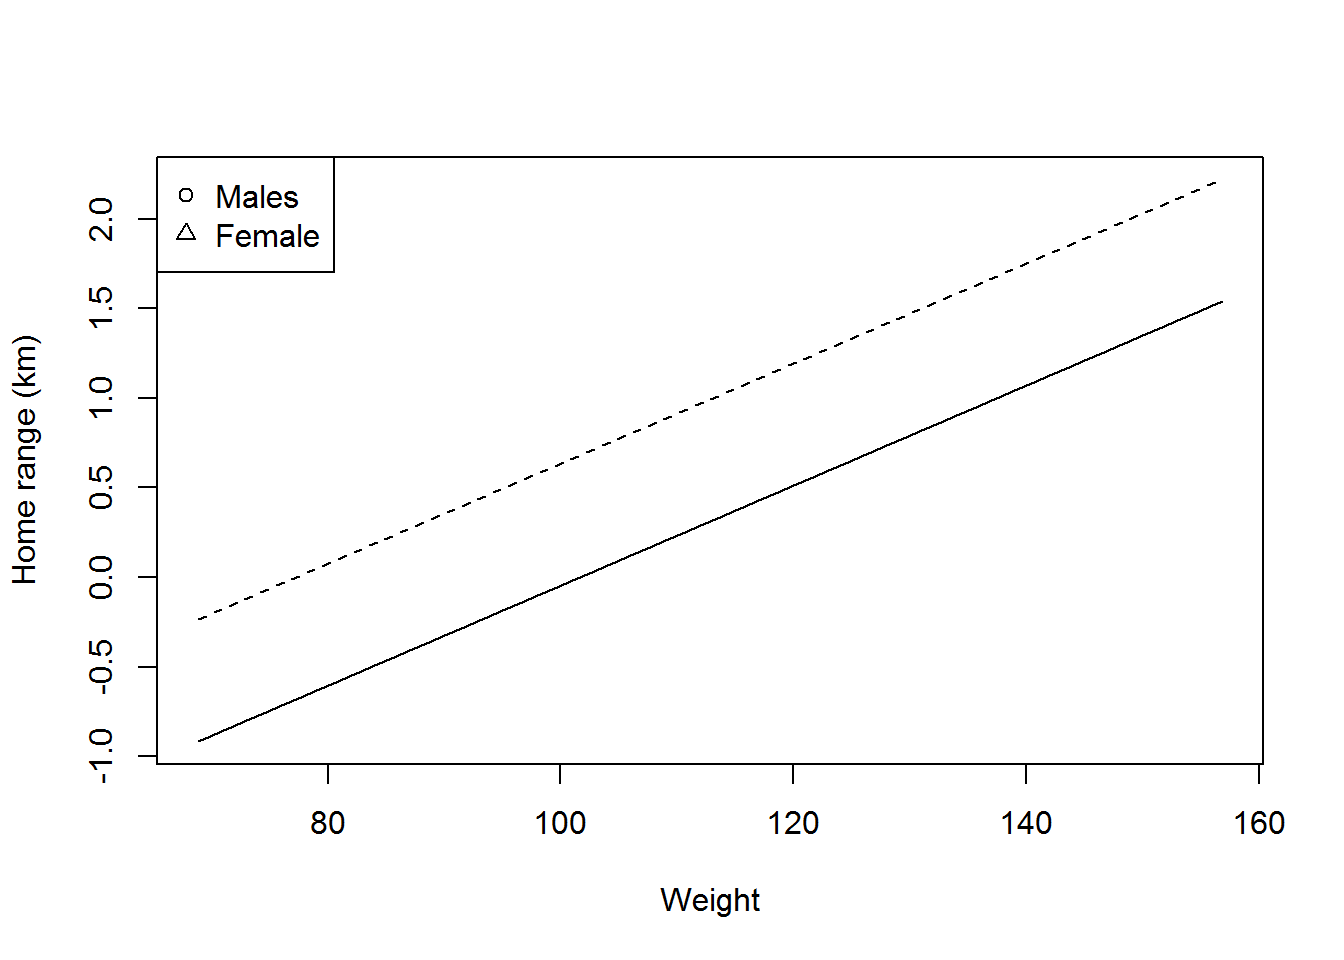
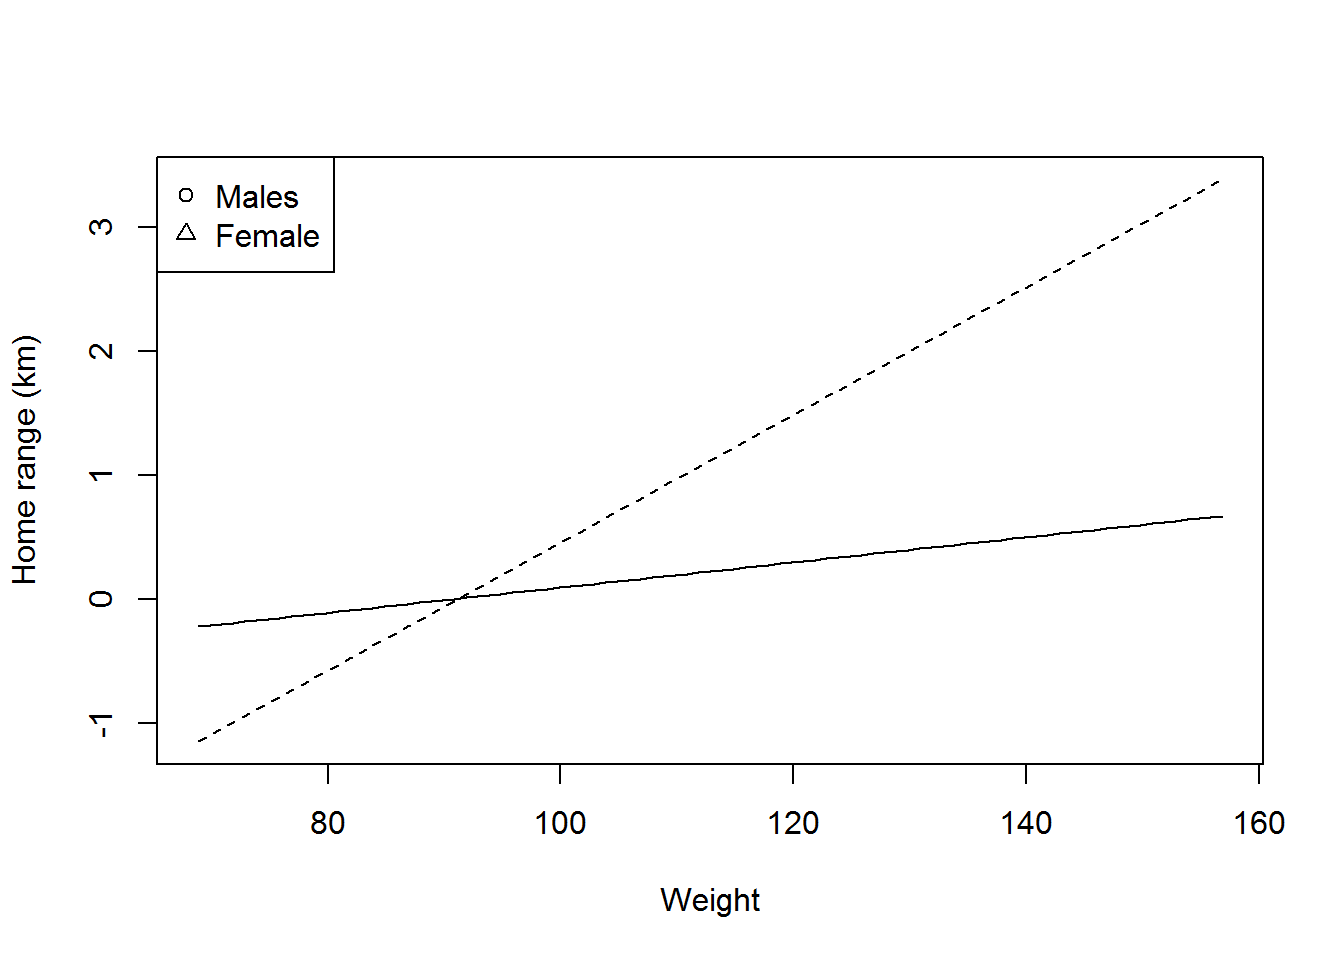
pre class 10

diff --git a/docs/Class-10.html b/docs/Class-10.html
@@ -358,11 +358,15 @@ List of preliminary problems to instructor for review
 <div id="a-basic-linear-model-of-a-normally-distributed-variable" class="section level2">
 <h2>A basic linear model of a normally distributed variable</h2>
 <p>Let’s fit a linear model to some the data. Suppose we are interested in predicting whether female bears have larger or smaller home ranges than male bears and the associated uncertainty. The model for this can be recast as:</p>
-<p><span class="math display">\[\mu = \beta_0 + \beta_1\cdot \text{Sex}\]</span></p>
+<p><span class="math display">\[\mu = \beta_0 + \beta_1\cdot \text{Sex}+
+    \beta_2\cdot\text{Weight}+
+    \beta_3\cdot\text{Weight}\cdot\text{Sex} \]</span></p>
 <p>where,</p>
 <ul>
 <li><span class="math inline">\(\beta_0\)</span> is the intercept of the model</li>
 <li><span class="math inline">\(\beta_1\)</span> is the effect of sex.</li>
+<li><span class="math inline">\(\beta_2\)</span> is the effect of weight.</li>
+<li><span class="math inline">\(\beta_3\)</span> is the interaction of sex and weight.</li>
 </ul>
 <p>We can link the predictive model to the data using a statistical model. In this case we are assuming a normal distribution with some uncertainty quantified as <span class="math inline">\(\sigma\)</span>. Recall was specific this as:</p>
 <p><span class="math display">\[Y_i \sim Normal(\mu,\sigma)\]</span></p>
@@ -432,36 +436,38 @@ summary(fit) # model summary</code></pre>
 <li><span class="math inline">\(\sigma\)</span> = 1.165 residual standard error</li>
 </ul>
 <p>Ok, now we also suspect there is an effect of weight on home range, larger bears have large home ranges. The effect of weight can be evaluated by adding weight to the linear model. The model parameters for this model are the same as before but there is a new parameter estimated, <span class="math inline">\(\beta_{2}\)</span> which is the effect of weight on home range. Let’s fit the model.</p>
-<pre class="r"><code>fit&lt;-lm(homerange~sex+weight,data=dat)
+<pre class="r"><code>fit&lt;-lm(homerange~sex+weight+sex:weight,data=dat)
 summary(fit)</code></pre>
 <pre><code>## 
 ## Call:
-## lm(formula = homerange ~ sex + weight, data = dat)
+## lm(formula = homerange ~ sex + weight + sex:weight, data = dat)
 ## 
 ## Residuals:
 ##     Min      1Q  Median      3Q     Max 
-## -1.0635 -0.5304 -0.2692  0.3202  4.8196 
+## -1.5483 -0.2282 -0.0520  0.1814  3.9842 
 ## 
 ## Coefficients:
-##              Estimate Std. Error t value Pr(&gt;|t|)    
-## (Intercept) -2.837499   0.490476  -5.785 1.58e-07 ***
-## sexfemale    0.680472   0.214368   3.174  0.00218 ** 
-## weight       0.027901   0.004337   6.433 1.05e-08 ***
+##                   Estimate Std. Error t value Pr(&gt;|t|)    
+## (Intercept)      -0.917105   0.538053  -1.704   0.0925 .  
+## sexfemale        -3.772067   0.816939  -4.617 1.60e-05 ***
+## weight            0.010143   0.004848   2.092   0.0398 *  
+## sexfemale:weight  0.041338   0.007396   5.589 3.61e-07 ***
 ## ---
 ## Signif. codes:  0 &#39;***&#39; 0.001 &#39;**&#39; 0.01 &#39;*&#39; 0.05 &#39;.&#39; 0.1 &#39; &#39; 1
 ## 
-## Residual standard error: 0.9415 on 75 degrees of freedom
-## Multiple R-squared:  0.4041, Adjusted R-squared:  0.3882 
-## F-statistic: 25.43 on 2 and 75 DF,  p-value: 3.71e-09</code></pre>
+## Residual standard error: 0.7948 on 74 degrees of freedom
+## Multiple R-squared:  0.581,  Adjusted R-squared:  0.564 
+## F-statistic:  34.2 on 3 and 74 DF,  p-value: 5.623e-14</code></pre>
 <pre class="r"><code>coef(fit)</code></pre>
-<pre><code>## (Intercept)   sexfemale      weight 
-## -2.83749882  0.68047161  0.02790104</code></pre>
-<p>Well I’ll be the model fits pretty well. The r-squared value is 0.4040865 which is pretty good for ecological data, right? Either way the parameter estimates for the model are:</p>
+<pre><code>##      (Intercept)        sexfemale           weight sexfemale:weight 
+##      -0.91710478      -3.77206675       0.01014257       0.04133752</code></pre>
+<p>Well I’ll be the model fits pretty well. The r-squared value is 0.5809741 which is pretty good for ecological data, right? Either way the parameter estimates for the model are:</p>
 <ul>
-<li><span class="math inline">\(\beta_{0}\)</span> = -2.837 this is the average home range of a male bear</li>
-<li><span class="math inline">\(\beta_{1}\)</span> = 0.68 the effect of being a female on home range</li>
-<li><span class="math inline">\(\beta_{2}\)</span> = 0.028 the effect of weight on home range</li>
-<li><span class="math inline">\(\sigma\)</span> = 0.942 residual standard error</li>
+<li><span class="math inline">\(\beta_{0}\)</span> = -0.917 this is the average home range of a male bear</li>
+<li><span class="math inline">\(\beta_{1}\)</span> = -3.772 the effect of being a female on home range</li>
+<li><span class="math inline">\(\beta_{2}\)</span> = 0.01 the effect of weight on home range</li>
+<li><span class="math inline">\(\beta_{3}\)</span> = 0.041 the effect of weight on home range</li>
+<li><span class="math inline">\(\sigma\)</span> = 0.795 residual standard error</li>
 </ul>
 </div>
 <div id="making-predictions-from-the-model" class="section level2">
@@ -494,12 +500,12 @@ levels(preddat$sex)</code></pre>
 <pre class="r"><code>preddat$pred&lt;- predict(fit,preddat)
 head(preddat)</code></pre>
 <pre><code>##     weight  sex       pred
-## 1 68.85462 male -0.9163836
-## 2 69.85462 male -0.8884826
-## 3 70.85462 male -0.8605815
-## 4 71.85462 male -0.8326805
-## 5 72.85462 male -0.8047795
-## 6 73.85462 male -0.7768784</code></pre>
+## 1 68.85462 male -0.2187423
+## 2 69.85462 male -0.2085997
+## 3 70.85462 male -0.1984571
+## 4 71.85462 male -0.1883146
+## 5 72.85462 male -0.1781720
+## 6 73.85462 male -0.1680294</code></pre>
 <p>Now we can plot the predictions.</p>
 <pre class="r"><code>plot(pred~weight,preddat,type=&#39;n&#39;,xlab=&quot;Weight&quot;,ylab=&quot;Home range (km)&quot;)
 points(pred~weight,preddat,subset=sex==&quot;male&quot;,type=&#39;l&#39;,lty=1)
@@ -515,7 +521,7 @@ points(pred~weight,preddat,subset=sex==&quot;male&quot;,type=&#39;l&#39;,lty=1)
 points(pred~weight,preddat,subset=sex==&quot;female&quot;,type=&#39;l&#39;,lty=2)
 legend(&#39;topleft&#39;,legend=c(&quot;Males&quot;,&quot;Female&quot;),pch=c(1,2))</code></pre>
 <p><img src="Class-10_files/figure-html/unnamed-chunk-18-1.png" width="672" /></p>
-<p>That is a terrible fit. But, the r-squared value was 0.4040865? I probably should have looked at the data first, but that is part of the point of this example. There are a couple of things that might be going on here. First, the distribution could be wrong. That data does not look all the normally distributed. Second, the model could be wrong and home ranges are not linearly related to sex and weight. We can evaluate these 2 problems with plots of residuals versus predicted to evaluate distribution and observed versus predicted values to evaluate if the model is misspecified. Here we go.</p>
+<p>That is a terrible fit. But, the r-squared value was 0.5809741? I probably should have looked at the data first, but that is part of the point of this example. There are a couple of things that might be going on here. First, the distribution could be wrong. That data does not look all the normally distributed. Second, the model could be wrong and home ranges are not linearly related to sex and weight. We can evaluate these 2 problems with plots of residuals versus predicted to evaluate distribution and observed versus predicted values to evaluate if the model is misspecified. Here we go.</p>
 <pre class="r"><code>dat$resids&lt;-resid(fit)
 dat$preds&lt;-fitted(fit)
 
@@ -534,8 +540,26 @@ abline(0,1)</code></pre>
 </div>
 <div id="messing-with-the-distribution" class="section level2">
 <h2>Messing with the distribution</h2>
-<p>Some cool kids told me that a Poisson might be the way to go because it models things 0 or greater. Home ranges are greater than 0 and it makes good sense to not let home range dip below 0. A linear model with a Poisson distribution can be fit using the <code>glm()</code> function. The syntax is similar to the <code>lm()</code> function.</p>
-<pre class="r"><code>fit&lt;- glm(homerange~sex+weight,dat, family=&quot;poisson&quot;)</code></pre>
+<p>Some cool kids told me that a Poisson might be the way to go because it models things 0 or greater. Home ranges are greater than 0 and it makes good sense to not let home range dip below 0. A linear model with a Poisson distribution can be fit using the <code>glm()</code> function.</p>
+<p>recast as:</p>
+<p><span class="math display">\[log(\mu) = \beta_0 + \beta_1\cdot \text{Sex}+
+    \beta_2\cdot\text{Weight}+
+    \beta_3\cdot\text{Weight}\cdot\text{Sex} \]</span></p>
+<p>where,</p>
+<ul>
+<li><span class="math inline">\(\beta_0\)</span> is the intercept of the model</li>
+<li><span class="math inline">\(\beta_1\)</span> is the effect of sex.</li>
+<li><span class="math inline">\(\beta_2\)</span> is the effect of weight.</li>
+<li><span class="math inline">\(\beta_3\)</span> is the interaction of sex and weight.</li>
+</ul>
+<p>We can link the predictive model to the data using a statistical model. In this case we are assuming a normal distribution with some uncertainty quantified as <span class="math inline">\(\sigma\)</span>. Recall was specific this as:</p>
+<p><span class="math display">\[Y_i \sim Poisson(\mu)\]</span></p>
+<p>where</p>
+<ul>
+<li><span class="math inline">\(\mu\)</span> is the prediction</li>
+</ul>
+<p>The Poisson distribution assumes that the uncertainty is equal to the mean. The syntax is similar to the <code>lm()</code> function.</p>
+<pre class="r"><code>fit&lt;- glm(homerange~sex+weight+sex:weight,dat, family=&quot;poisson&quot;)</code></pre>
 <pre><code>## Warning in dpois(y, mu, log = TRUE): non-integer x = 0.002182</code></pre>
 <pre><code>## Warning in dpois(y, mu, log = TRUE): non-integer x = 0.874164</code></pre>
 <pre><code>## Warning in dpois(y, mu, log = TRUE): non-integer x = 0.218165</code></pre>
@@ -618,24 +642,26 @@ abline(0,1)</code></pre>
 <pre class="r"><code>summary(fit)</code></pre>
 <pre><code>## 
 ## Call:
-## glm(formula = homerange ~ sex + weight, family = &quot;poisson&quot;, data = dat)
+## glm(formula = homerange ~ sex + weight + sex:weight, family = &quot;poisson&quot;, 
+##     data = dat)
 ## 
 ## Deviance Residuals: 
 ##      Min        1Q    Median        3Q       Max  
-## -0.67395  -0.11986  -0.04437  -0.01000   1.87169  
+## -0.68998  -0.13150  -0.04767  -0.01447   1.87169  
 ## 
 ## Coefficients:
-##              Estimate Std. Error z value Pr(&gt;|z|)    
-## (Intercept) -13.95964    2.12579  -6.567 5.14e-11 ***
-## sexfemale     1.61283    0.40460   3.986 6.71e-05 ***
-## weight        0.09393    0.01457   6.449 1.13e-10 ***
+##                   Estimate Std. Error z value Pr(&gt;|z|)    
+## (Intercept)      -13.57659    4.10047  -3.311  0.00093 ***
+## sexfemale          1.09791    4.77059   0.230  0.81798    
+## weight             0.09127    0.02848   3.205  0.00135 ** 
+## sexfemale:weight   0.00359    0.03318   0.108  0.91382    
 ## ---
 ## Signif. codes:  0 &#39;***&#39; 0.001 &#39;**&#39; 0.01 &#39;*&#39; 0.05 &#39;.&#39; 0.1 &#39; &#39; 1
 ## 
 ## (Dispersion parameter for poisson family taken to be 1)
 ## 
-##     Null deviance: 119.0547  on 77  degrees of freedom
-## Residual deviance:   8.3676  on 75  degrees of freedom
+##     Null deviance: 119.055  on 77  degrees of freedom
+## Residual deviance:   8.356  on 74  degrees of freedom
 ## AIC: Inf
 ## 
 ## Number of Fisher Scoring iterations: 6</code></pre>
@@ -655,13 +681,13 @@ abline(0,1)</code></pre>
 <p><img src="Class-10_files/figure-html/unnamed-chunk-25-1.png" width="672" /></p>
 <p>That looks a whole lot better. But I am still a concerned about all the warnings that happened during the model fitting. What is up with those. Let’s look at our data again.</p>
 <pre class="r"><code>head(dat)</code></pre>
-<pre><code>##   X    sex    weight   homerange      resids      preds        pred
-## 1 1 female  78.23331 0.002182498 -0.02358063 0.02576313 0.006750458
-## 2 2 female 124.00695 0.874163579 -0.42873153 1.30289511 0.497328408
-## 3 3 female 122.83473 0.218165462 -1.05202348 1.27018894 0.445474849
-## 4 4 female 124.10415 0.279088639 -1.02651854 1.30560718 0.501890092
-## 5 5 female 145.48238 3.906925690  2.00484361 1.90208208 3.738709744
-## 6 6 female 125.62795 0.307864648 -1.04025826 1.34812291 0.579123760</code></pre>
+<pre><code>##   X    sex    weight   homerange     resids      preds        pred
+## 1 1 female  78.23331 0.002182498  0.6638967 -0.6617142 0.006359669
+## 2 2 female 124.00695 0.874163579 -0.8205531  1.6947167 0.488764239
+## 3 3 female 122.83473 0.218165462 -1.4162052  1.6343707 0.437330022
+## 4 4 female 124.10415 0.279088639 -1.4206321  1.6997207 0.493291641
+## 5 5 female 145.48238 3.906925690  1.1066516  2.8002741 3.747912212
+## 6 6 female 125.62795 0.307864648 -1.4703017  1.7781663 0.570003540</code></pre>
 <p>Ohhh, I think I see it. The Poisson distribution is only good for integers and home range is continuous. I wonder what happens is I round my home ranges to the nearest whole number and coerce it to an integer.</p>
 <pre class="r"><code>dat$hr_int&lt;- as.integer(round(dat$homerange,0))</code></pre>
 <p>Now let’s refit the model and see if the warnings persist.</p>
@@ -678,28 +704,28 @@ abline(0,1)</code></pre>
 <p><img src="Class-10_files/figure-html/unnamed-chunk-31-1.png" width="672" /></p>
 <p>Ummm, that looks weird. First there are some home ranges that are predicted to be 0, or at least close to it. Second, what is up with the extreme residuals? Maybe a Poisson was not a great idea. Let’s go back and look at the data. Recall we coerced home range from a numeric to an integer. Maybe that hand an unintended consequence. Let’s look at the first 10 lines of the data.</p>
 <pre class="r"><code>head(dat,10)</code></pre>
-<pre><code>##     X    sex    weight    homerange      resids       preds      pred
-## 1   1 female  78.23331 0.0021824984 -0.02358063  0.02576313  1.002025
-## 2   2 female 124.00695 0.8741635788 -0.42873153  1.30289511  1.397543
-## 3   3 female 122.83473 0.2181654615 -1.05202348  1.27018894  1.341339
-## 4   4 female 124.10415 0.2790886392 -1.02651854  1.30560718  1.402655
-## 5   5 female 145.48238 3.9069256902  2.00484361  1.90208208 39.571092
-## 6   6 female 125.62795 0.3078646484 -1.04025826  1.34812291  1.493461
-## 7   7 female  68.85462 0.0006050199  0.23651703 -0.23591201  1.000710
-## 8   8 female  88.92955 0.0051363679 -0.31906290  0.32419927  1.006697
-## 9   9 female 127.94754 0.3493210952 -1.06352061  1.41284170  1.681382
-## 10 10 female 114.28260 0.1118241467 -0.91975169  1.03157584  1.119703
-##    hr_int       resid
-## 1       0 -0.06360536
-## 2       1  0.92648763
-## 3       0 -0.76637850
-## 4       0 -0.82263801
-## 5       4  0.16548285
-## 6       0 -0.89565210
-## 7       0 -0.03768721
-## 8       0 -0.11553811
-## 9       0 -1.01942725
-## 10      0 -0.47552794</code></pre>
+<pre><code>##     X    sex    weight    homerange     resids      preds      pred hr_int
+## 1   1 female  78.23331 0.0021824984  0.6638967 -0.6617142  1.002025      0
+## 2   2 female 124.00695 0.8741635788 -0.8205531  1.6947167  1.397543      1
+## 3   3 female 122.83473 0.2181654615 -1.4162052  1.6343707  1.341339      0
+## 4   4 female 124.10415 0.2790886392 -1.4206321  1.6997207  1.402655      0
+## 5   5 female 145.48238 3.9069256902  1.1066516  2.8002741 39.571092      4
+## 6   6 female 125.62795 0.3078646484 -1.4703017  1.7781663  1.493461      0
+## 7   7 female  68.85462 0.0006050199  1.1451349 -1.1445299  1.000710      0
+## 8   8 female  88.92955 0.0051363679  0.1162073 -0.1110709  1.006697      0
+## 9   9 female 127.94754 0.3493210952 -1.5482576  1.8975787  1.681382      0
+## 10 10 female 114.28260 0.1118241467 -1.0822825  1.1941066  1.119703      0
+##          resid
+## 1  -0.06360536
+## 2   0.92648763
+## 3  -0.76637850
+## 4  -0.82263801
+## 5   0.16548285
+## 6  -0.89565210
+## 7  -0.03768721
+## 8  -0.11553811
+## 9  -1.01942725
+## 10 -0.47552794</code></pre>
 <p>Recall we rounded <code>homerange</code> to the nearest integer and then coerced that value to an integer <code>hr_int</code>. Well that did have an unexpected effect. There are many home ranges that are 0. That seems biologically improbable for living bears.</p>
 <p>What can we do? Well we can maybe convert home ranges to a number that is less likely to round to 0. For example we can convert square km to square m and then round those values to get whole numbers so the Poisson does not yell at us and throw a bunch of warnings again. Let’s go for it and see what happens.</p>
 <pre class="r"><code>dat$hr_mm&lt;-dat$homerange*1000000
@@ -776,7 +802,11 @@ fit&lt;-glm(hr_mm~sex+weight,dat,family=&quot;poisson&quot;)</code></pre>
 <pre><code>## Warning in dpois(y, mu, log = TRUE): non-integer x = 29714.833612</code></pre>
 <pre><code>## Warning in dpois(y, mu, log = TRUE): non-integer x = 13219.933123</code></pre>
 <pre><code>## Warning in dpois(y, mu, log = TRUE): non-integer x = 276.950588</code></pre>
-<p>Uggg, that didn’t work either. Maybe those cool kids were not as cool as I thought. Well, the link function for the Poisson was a log. It has some nice properties that when you take the anti-log (i.e., <code>exp()</code>) then you get a positive value. Let’s try it.</p>
+<p>Uggg, that didn’t work either. Maybe those cool kids were not as cool as I thought. You shouldn’t assume a variable is has a Poisson distribution if it is not an integer.</p>
+</div>
+<div id="more-messing-with-the-distribution" class="section level2">
+<h2>More messing with the distribution</h2>
+<p>Well, the link function for the Poisson was a log. It has some nice properties that when you take the anti-log (i.e., <code>exp()</code>) then you get a positive value. Let’s try it.</p>
 <pre class="r"><code>exp(-5)</code></pre>
 <pre><code>## [1] 0.006737947</code></pre>
 <pre class="r"><code>exp(2)</code></pre>
@@ -793,7 +823,25 @@ points(lhomerange~weight,data=dat,subset=sex==&quot;male&quot;,pch=1)
 points(lhomerange~weight,data=dat,subset=sex==&quot;female&quot;,pch=2)
 legend(&#39;topleft&#39;,legend=c(&quot;Males&quot;,&quot;Female&quot;),pch=c(1,2))</code></pre>
 <p><img src="Class-10_files/figure-html/unnamed-chunk-35-1.png" width="672" /></p>
-<p>Well that looks a whole lot better. Let’s fit a linear model and see how that goes.</p>
+<p>Well that looks a whole lot better. Let’s fit a linear model and see how that goes. Formally the linear model, or log-linear model in this case is recast as:</p>
+<p><span class="math display">\[log(\mu) = \beta_0 + \beta_1\cdot \text{Sex}+
+    \beta_2\cdot\text{Weight}+
+    \beta_3\cdot\text{Weight}\cdot\text{Sex} \]</span></p>
+<p>where,</p>
+<ul>
+<li><span class="math inline">\(\beta_0\)</span> is the intercept of the model</li>
+<li><span class="math inline">\(\beta_1\)</span> is the effect of sex.</li>
+<li><span class="math inline">\(\beta_2\)</span> is the effect of weight.</li>
+<li><span class="math inline">\(\beta_3\)</span> is the interaction of sex and weight.</li>
+</ul>
+<p>We can link the predictive model to the data using a statistical model. In this case we are assuming a normal distribution with some uncertainty quantified as <span class="math inline">\(\sigma\)</span>. Recall was specific this as:</p>
+<p><span class="math display">\[log(Y_i) \sim Normal(log(\mu),\sigma)\]</span></p>
+<p>where</p>
+<ul>
+<li><span class="math inline">\(log(\mu)\)</span> is the log of prediction</li>
+<li><span class="math inline">\(\sigma\)</span> is the standard deviation.</li>
+</ul>
+<p>Note here we are working on log scale so we need to log transform our observed data.</p>
 <pre class="r"><code>fit&lt;- lm(lhomerange~weight+sex+weight:sex,data=dat)
 dat$pred&lt;- fitted(fit) # add predictions to dataset
 dat$resid&lt;- resid(fit) # add residuals to dataset</code></pre>
